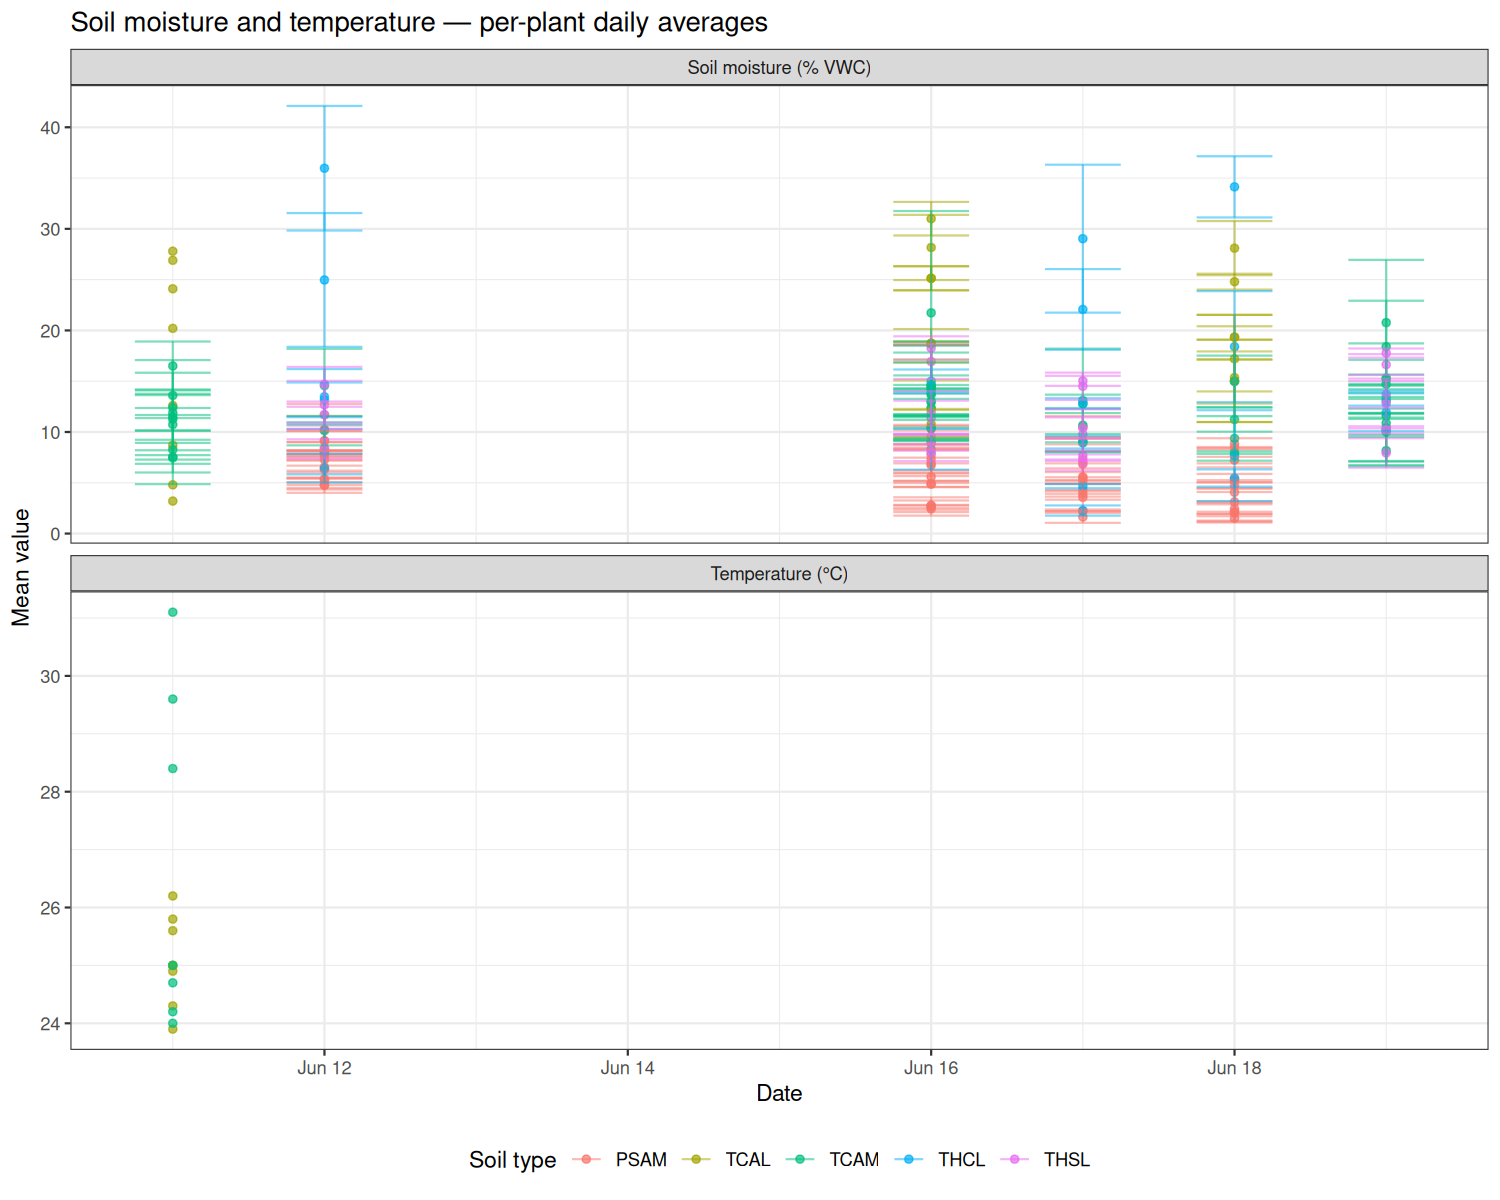
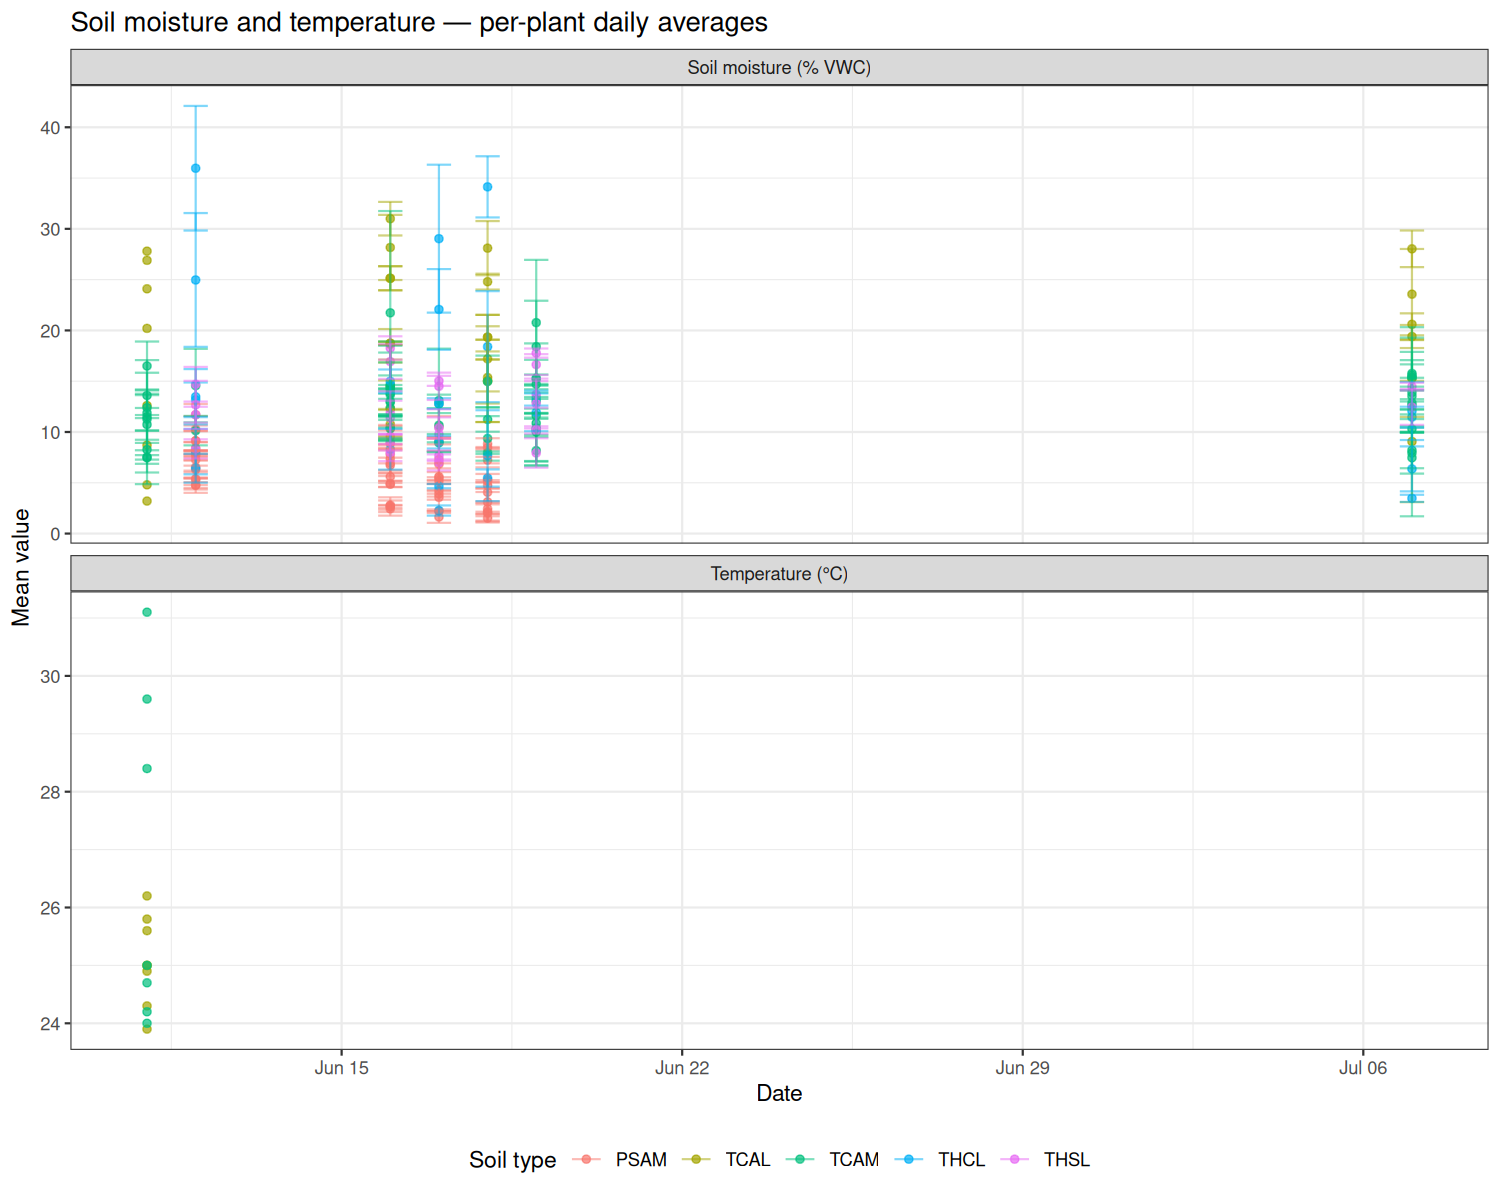
[auto] update summary figures 2026-07-29

diff --git a/SoilProperties/README.md b/SoilProperties/README.md
@@ -21,7 +21,7 @@ productivity than climate variables alone.
 | Data type | Last update | Row count |
 |---|---|---|
 | Infiltration field data | — | 0 |
-| Soil moisture | 2026-06-19 | 503 |
+| Soil moisture | 2026-07-07 | 575 |
 | Hyperspectral indices | error | error |
 | Jmax / Vcmax | — | — |
 
